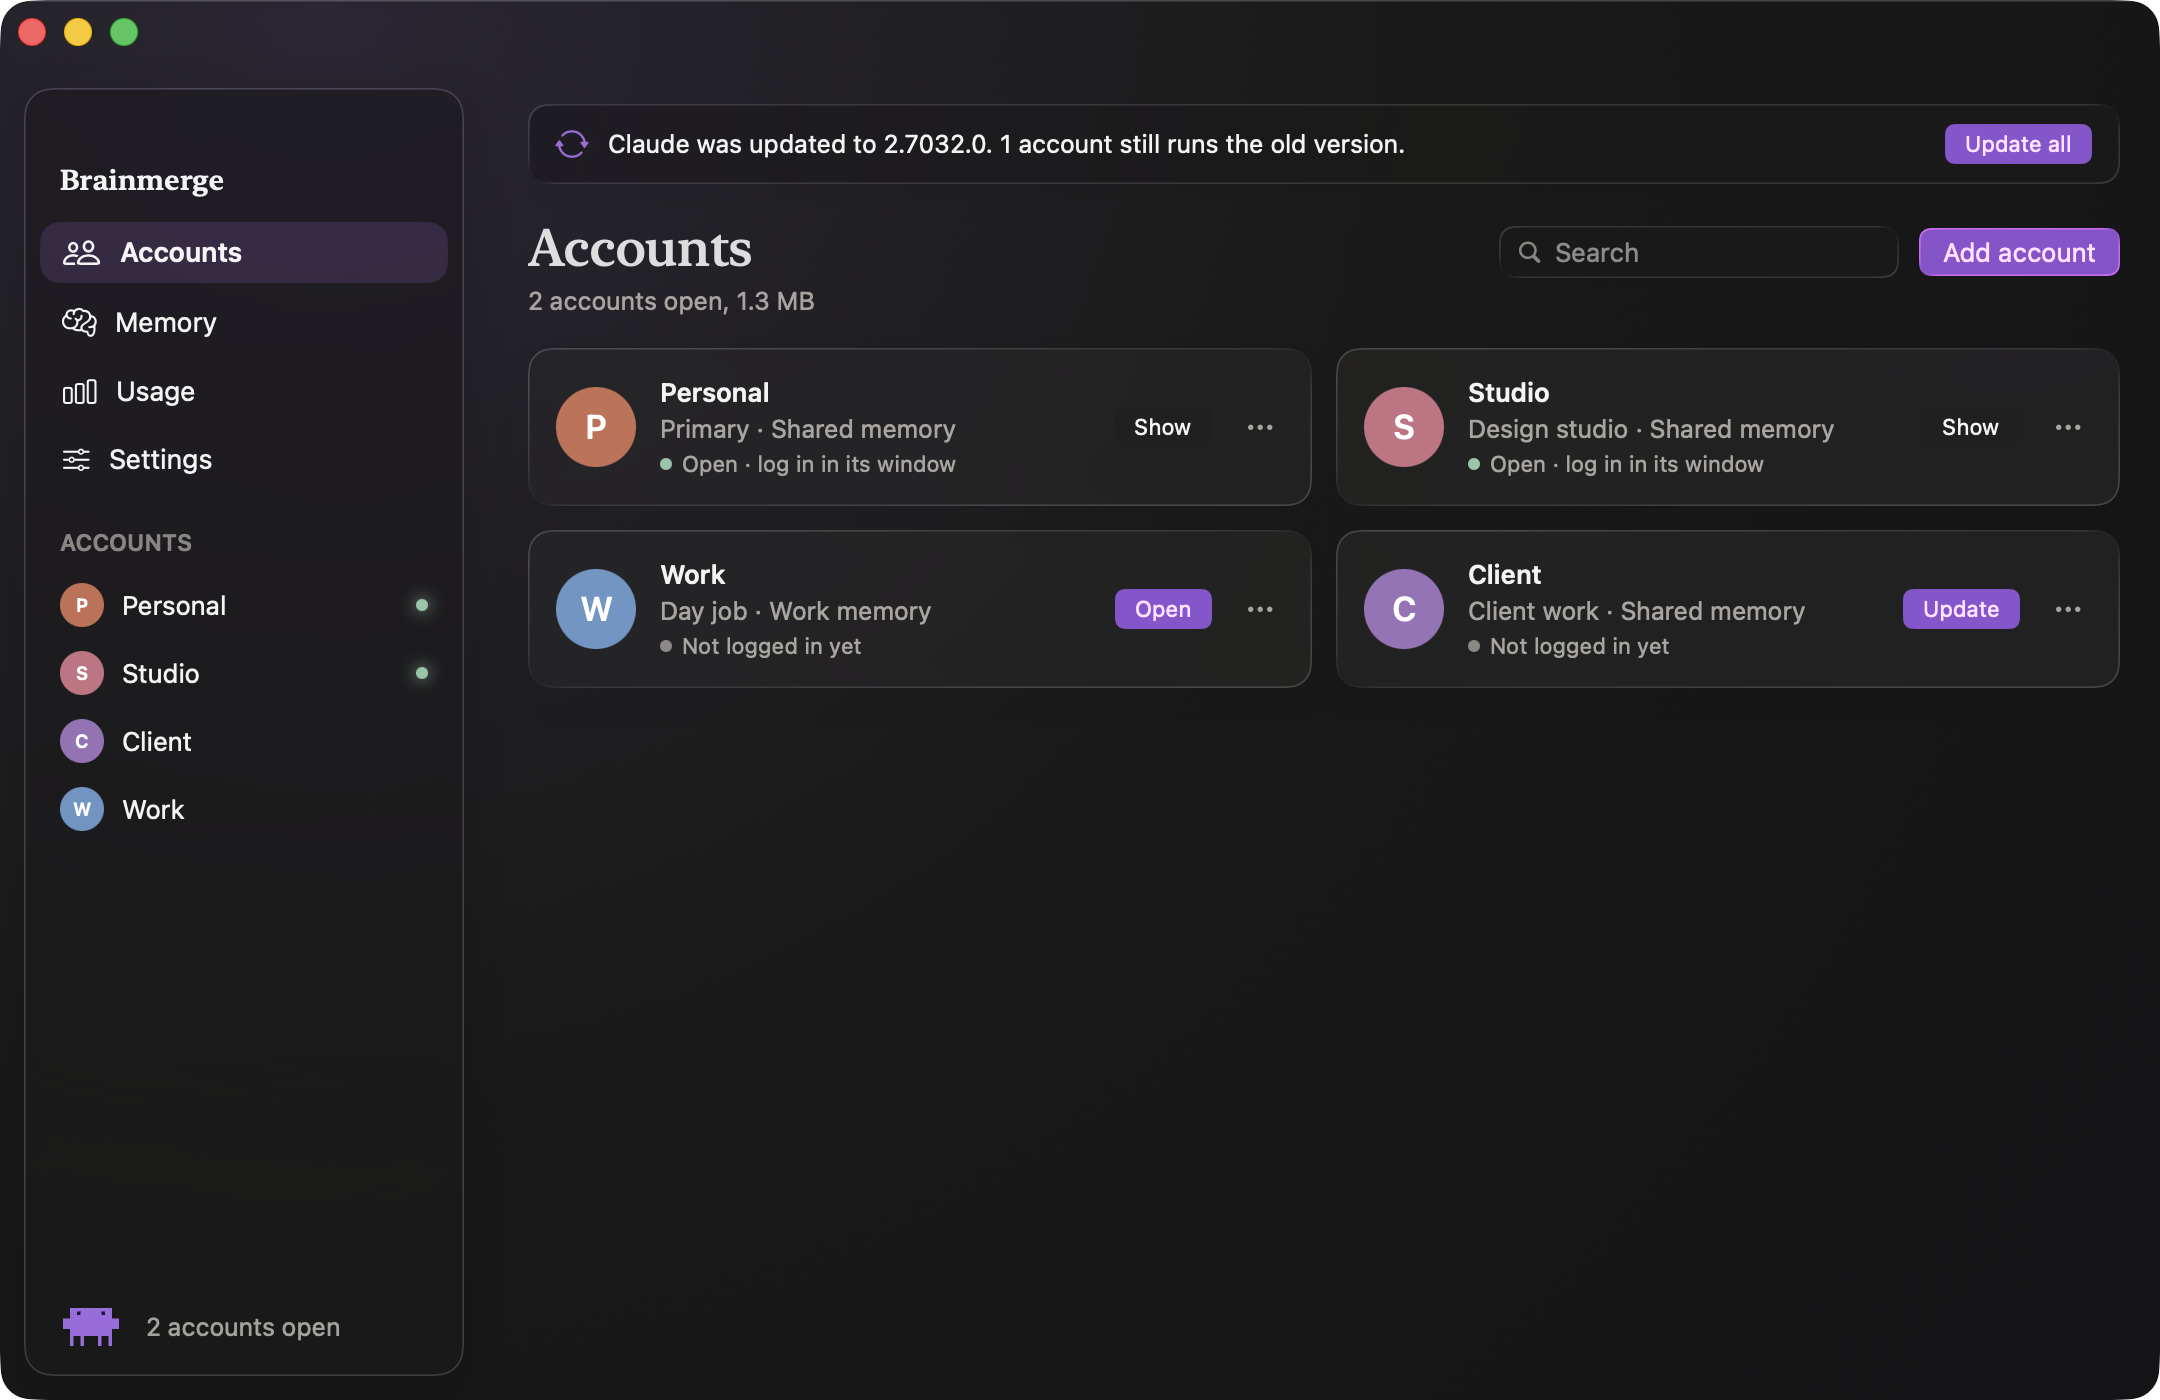
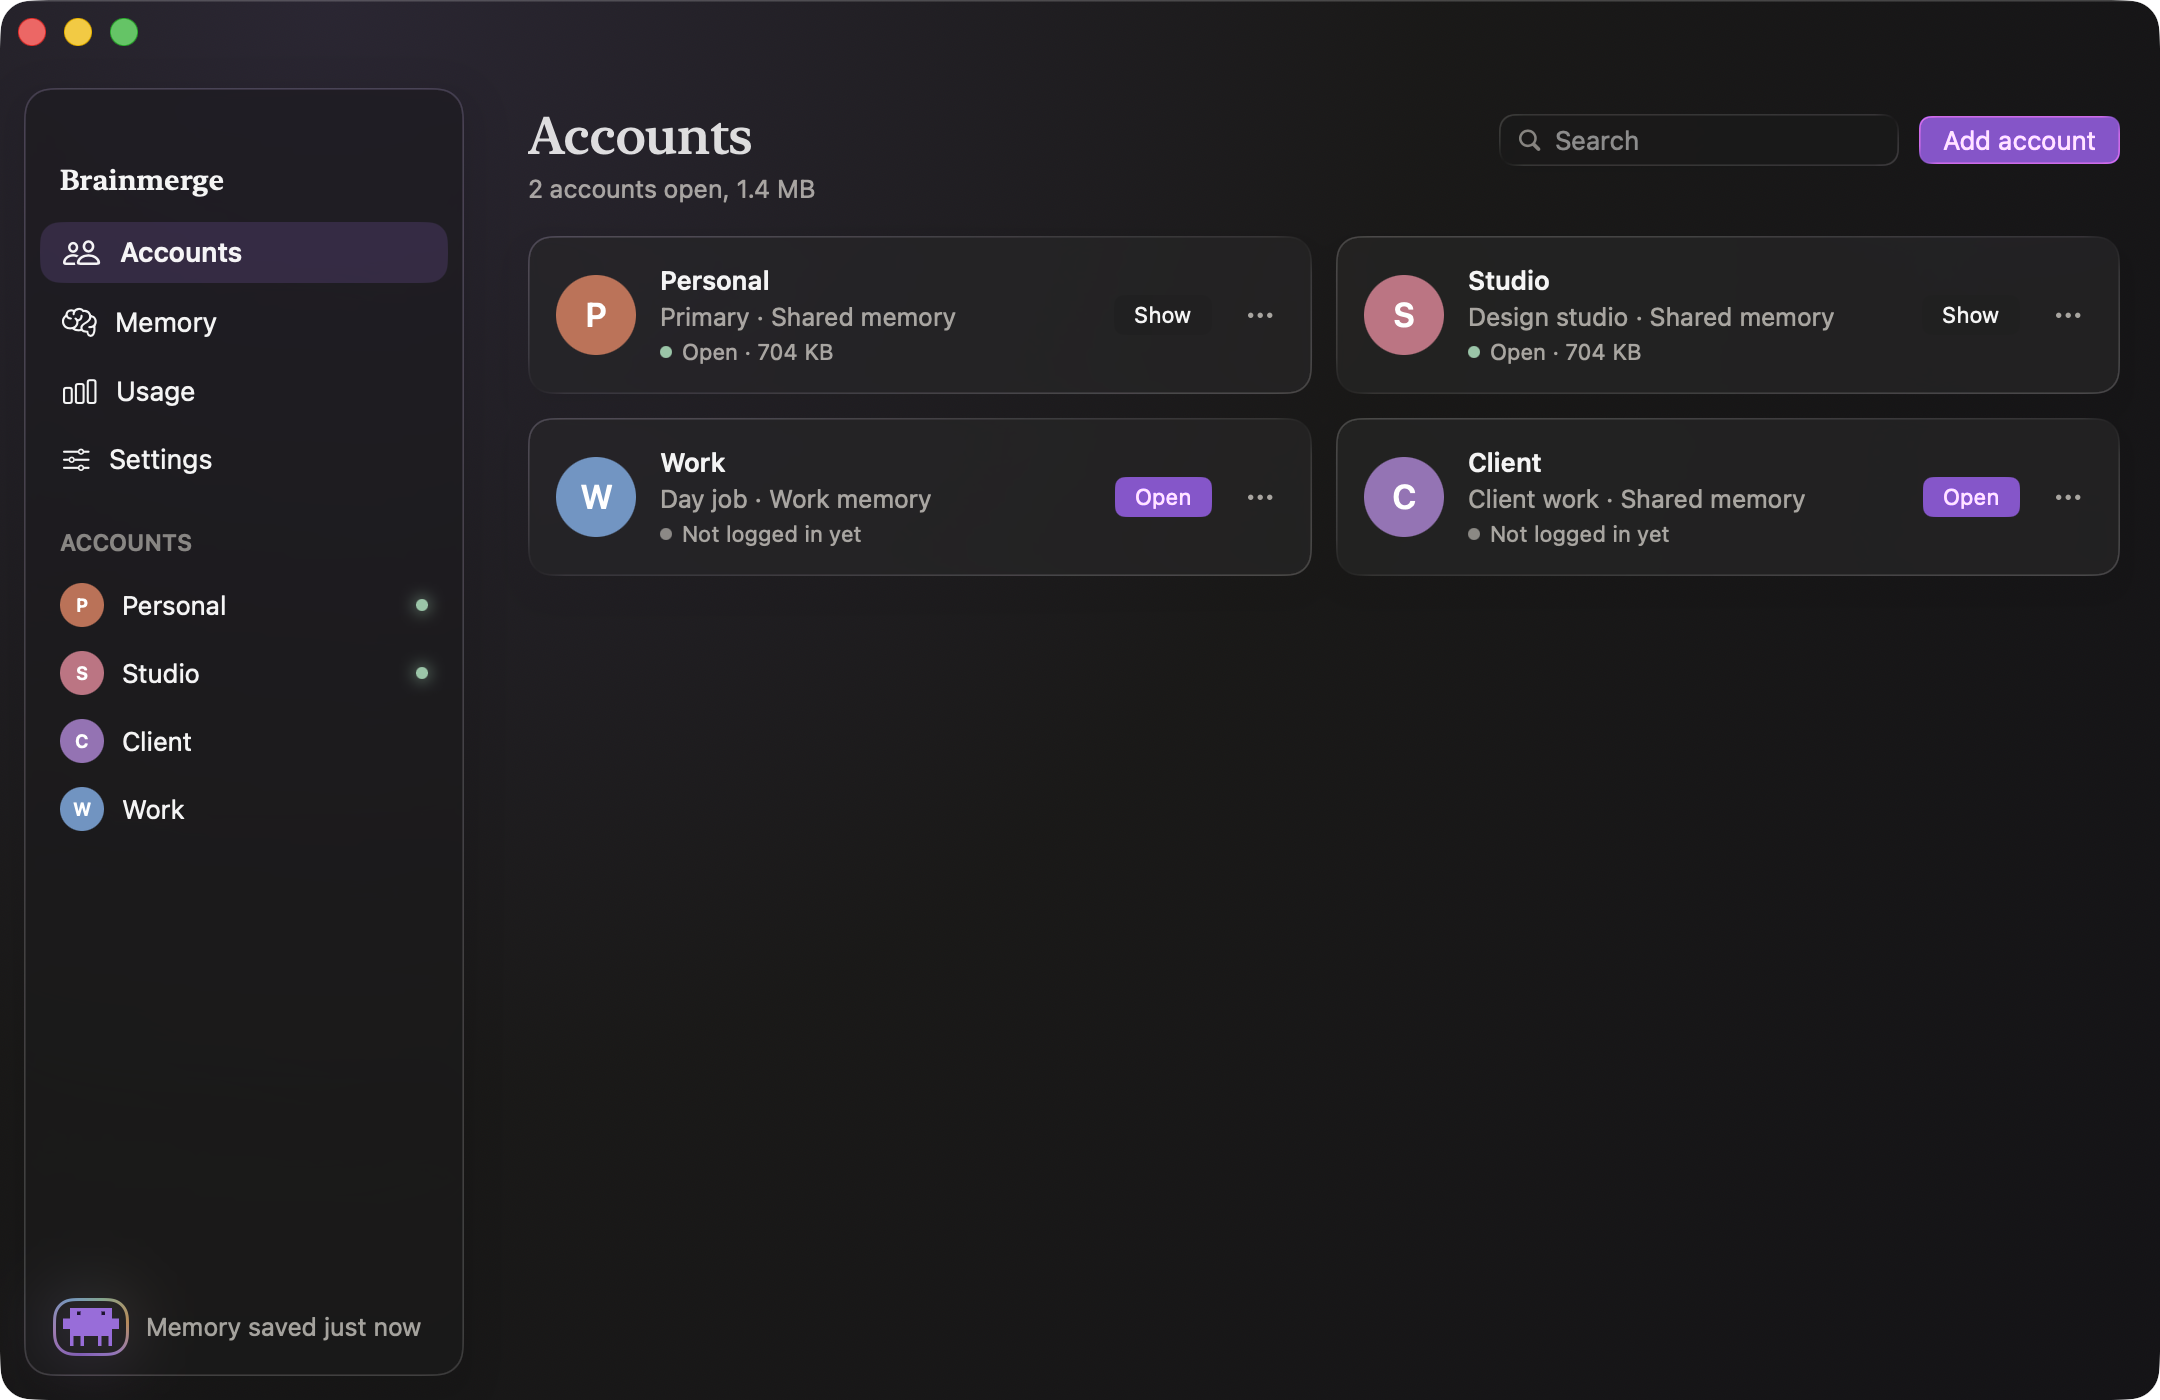
Brainmerge 0.4.0: the memory graph, install steps that match macOS 15 and later (Open Anyway), a release mode that submits to Apple's notarization without waiting, fresh captures

diff --git a/Packages/BrainmergeUI/Sources/BrainmergeUI/Model/Installer.swift b/Packages/BrainmergeUI/Sources/BrainmergeUI/Model/Installer.swift
@@ -83,7 +83,7 @@ public enum Installer {
         NSWorkspace.shared.openApplication(at: target, configuration: configuration) { _, error in
             DispatchQueue.main.async {
                 if let error {
-                    onFailure(Failure(description: "The copy is in Applications but macOS did not open it (\(error.localizedDescription)). Open it from there: right-click, Open."))
+                    onFailure(Failure(description: "The copy is in Applications but macOS did not open it (\(error.localizedDescription)). Open it from there; if macOS stops it, click Open Anyway in System Settings, Privacy & Security."))
                 } else {
                     NSApp.terminate(nil)
                 }

diff --git a/Packages/BrainmergeCore/Tests/BrainmergeCoreTests/CLISmokeTests.swift b/Packages/BrainmergeCore/Tests/BrainmergeCoreTests/CLISmokeTests.swift
@@ -142,6 +142,6 @@ import BrainmergeTestSupport
     @Test func versionMatchesTheApp() throws {
         let e = try ManagerEnv.make(); defer { e.home.remove() }
         #expect(try run(e, ["--version"]).stdout.trimmingCharacters(in: .whitespacesAndNewlines) == BrainmergeInfo.version)
-        #expect(BrainmergeInfo.version == "0.3.0")
+        #expect(BrainmergeInfo.version == "0.4.0")
     }
 }

diff --git a/Packages/BrainmergeCore/Sources/BrainmergeCore/Model/BrainmergeInfo.swift b/Packages/BrainmergeCore/Sources/BrainmergeCore/Model/BrainmergeInfo.swift
@@ -2,5 +2,5 @@ import Foundation
 
 /// The one version string, shared by the app and the command line.
 public enum BrainmergeInfo {
-    public static let version = "0.3.0"
+    public static let version = "0.4.0"
 }

diff --git a/Packages/BrainmergeUI/Tests/BrainmergeUITests/SmokeTests.swift b/Packages/BrainmergeUI/Tests/BrainmergeUITests/SmokeTests.swift
@@ -3,6 +3,6 @@ import Testing
 
 @Suite struct SmokeTests {
     @Test func versionIsSet() {
-        #expect(BrainmergeUIInfo.version == "0.3.0")
+        #expect(BrainmergeUIInfo.version == "0.4.0")
     }
 }

diff --git a/TASKS.md b/TASKS.md
@@ -7,9 +7,10 @@
 
 - [ ] Rejouer S2 et S3 (vraies sessions Claude Code des deux comptes) quand les profils CLI sont reconnectés
 - [ ] Réglages GitHub à faire par Ruben : protéger main (fusion par PR, CI verte), téléverser l'aperçu social (docs/brand/banner-1280x640.png), description et sujets du dépôt, activer « Report a vulnerability »
-- [ ] v0.4 : Codex et autres assistants (CODEX_HOME, AGENTS.md, notify) derrière une abstraction « provider » ; sessions Terminal dans la RAM par compte ; carte de la mémoire (graphe des notes, comptes et projets)
+- [ ] Codex et autres assistants (CODEX_HOME, AGENTS.md, notify) derrière une abstraction « provider » ; sessions Terminal dans la RAM par compte
 - [ ] Calibrer la détection de connexion sur une vraie connexion (un compte de test au clavier)
-- [ ] Créer l'identité Developer ID Application et le profil notarytool avec le compte Apple de Ruben (prérequis de la livraison)
+- [ ] Attendre le verdict de la première notarisation (soumission ba80b09e), puis publier la 0.4.0 signée et notarisée avec `~/brainmerge-private/release-signed.sh` et retirer le « clic droit puis Ouvrir » du README et du site
+- [ ] Site vitrine : finir, relire, déployer sur Vercel (scope perso, brainmerge.vercel.app), l'ajouter à ruben-analytics, lier la page d'accueil du dépôt
 - [ ] Envoyer à Anthropic la demande d'autorisation pour la mascotte (lettre dans ~/brainmerge-private/docs/anthropic-brand-request.md) avant la sortie publique ; si refus, remplacer la créature (un seul fichier)
 - [ ] Trouver un nom à la créature avec Ruben
 - [ ] v0.1 « Ton montage, automatisé » : identités, cerveau local, attribution, doctor, interface, tests, build signée et notarisée
@@ -18,6 +19,9 @@
 - [ ] Windows en natif, après la v1
 
 ## Fait
+
+- [x] 2026-09-24 : signature Developer ID via le compte Xcode de Ruben (export developer-id avec signature cloud), release.sh qui signe, notarise, agrafe et produit dist/Brainmerge.dmg
+- [x] 2026-09-24 : écran Mémoire en graphe vivant façon Obsidian (bulles par compte, liens, projets, pulsations, survol, clic, double-clic, frise en second onglet), branche memory-graph
 
 - [x] 2026-09-24 : v0.3 « utile pour de vrai » : plusieurs mémoires (une par compte au choix), état connecté, feuille d'édition et vrai app par compte, mises à jour vivantes des copies teintées, lecture d'usage 13 fois plus légère, désinstallation propre, finitions de l'audit design, README réécrit autour du problème, 0.3.0 installée
 - [x] 2026-09-24 : plan C « finitions v0.2 » : DA violette sobre et pro, écran Usage (tokens locaux), RAM par compte et alerte, identité de marque, DMG propre et déplacement vers Applications, fichiers de contribution, revue finale corrigée, 0.2.0 installée

diff --git a/README.md b/README.md
@@ -68,7 +68,9 @@ Editing an account changes everything in one place: name, color or photo, note, 
 
 ![Memory](docs/design/captures/05-memoire.png)
 
-Every account writes its notes into its memory, one subfolder per project. A memory is a git repository: each account signs its own saves, so the Memory screen can tell you who remembered what. Open it in Finder, Obsidian or any app; with several memories, a picker at the top switches between them. Settings lists every memory, the accounts that write to it, and lets you add one, rename one, or forget one you no longer use (its folder stays on disk).
+Every account writes its notes into its memory, one subfolder per project. The Memory screen shows it as a live graph, like Obsidian's: every note is a bubble in the color of the account that saved it, links are threads, each project is a larger bubble with its notes around it. A note pulses while Claude Code writes it, and again when the account saves it. Hover a bubble to light its neighbors, click it to read it, double-click it to open it in your notes app. The Timeline tab tells the same story in sentences.
+
+A memory is a git repository: each account signs its own saves, so Brainmerge can tell you who remembered what. The graph only reads the folder, never writes to it. Open it in Finder, Obsidian or any app; with several memories, a picker at the top switches between them. Settings lists every memory, the accounts that write to it, and lets you add one, rename one, or forget one you no longer use (its folder stays on disk).
 
 ### Settings
 
@@ -97,7 +99,7 @@ Each card is one account, or two accounts that share their history (they write t
 
 Brainmerge needs macOS 26 and the Claude app. The first time a new account opens, macOS asks once to allow "Claude Safe Storage" in the keychain: click Always Allow. It may also ask whether the new account may access your Documents folder: click Allow. Both prompts come from the Claude app doing exactly what it does on first launch, under the new account's name. Quit your other Claude windows before logging a new account in: the login link from your browser opens in the Claude window that is already running.
 
-The current builds are signed ad hoc, not notarized: macOS will ask you to confirm the first opening (right-click, Open). Notarized builds come with a later release.
+Releases are signed with a Developer ID and sent to Apple for notarization. Until Apple's check has landed for a release, macOS may stop its first opening: open System Settings, then Privacy & Security, and click Open Anyway (since macOS 15, right-click and Open no longer does it).
 
 ## Why this stays within Anthropic's terms
 

diff --git a/CHANGELOG.md b/CHANGELOG.md
@@ -1,5 +1,14 @@
 # Changelog
 
+## 0.4.0
+
+- The memory as a live graph, like Obsidian's graph view. Every note is a bubble in the color of the account that saved it last, links between notes are threads, and each project is a larger bubble that is also its index (`MEMORY.md`). A note pulses while Claude Code writes it, and again, in the account's color, when that account saves it. Hover a bubble to light it and its neighbors, click it to read it (who saved it, when, its first lines, updated live), double-click it to open it in your notes app. Drag to move around or to pull a bubble, pinch or scroll to zoom. The legend counts each account's notes; click an account to keep its notes lit. The timeline of sentences stays one click away.
+- The graph reads links the way Obsidian does: `[[wikilinks]]` with aliases and headings, notes with dots in their names, Markdown links relative to the note or to the memory, links with spaces or titles; code and embedded files are left out. Names with accents keep their author.
+- Light on the Mac: only notes that changed are read again, the history is read again only after a save, a fifty-thousand-file vault is walked in about a quarter of a second, a hidden window stops reading, and only the drawing redraws while the graph moves. Up to 2,000 notes are drawn, the most recent. Symlinks are never followed, and a memory kept behind a symlink (Dropbox, iCloud) is read where it really is.
+- Keyboard and VoiceOver: with keyboard navigation on, arrow keys go from note to note, Return opens, Escape closes; VoiceOver lists the notes with who saved them. With Reduce Motion, the graph settles out of sight and pulses do not ripple.
+- Opening a note whose name holds "&", "+" or "=" in Obsidian now opens that note.
+- Releases can be signed with a Developer ID and notarized by Apple (`scripts/release.sh` with a team and a notary key); screenshots are only ever taken on a demo home.
+
 ## 0.3.0
 
 - Several memories: one shared by default, and any account can get a memory of its own (from its card's menu, the edit sheet, the add sheet or the guided setup). Every account writes to exactly one memory; switching relinks its projects and moves no note. The Memory screen has a picker, Settings lists the memories (add, rename, forget without deleting), and the command line follows (`brain list | add | forget | rename`, `identity add --brain | --own-brain`, `identity edit --brain`). States written by 0.2 are migrated as they are.
